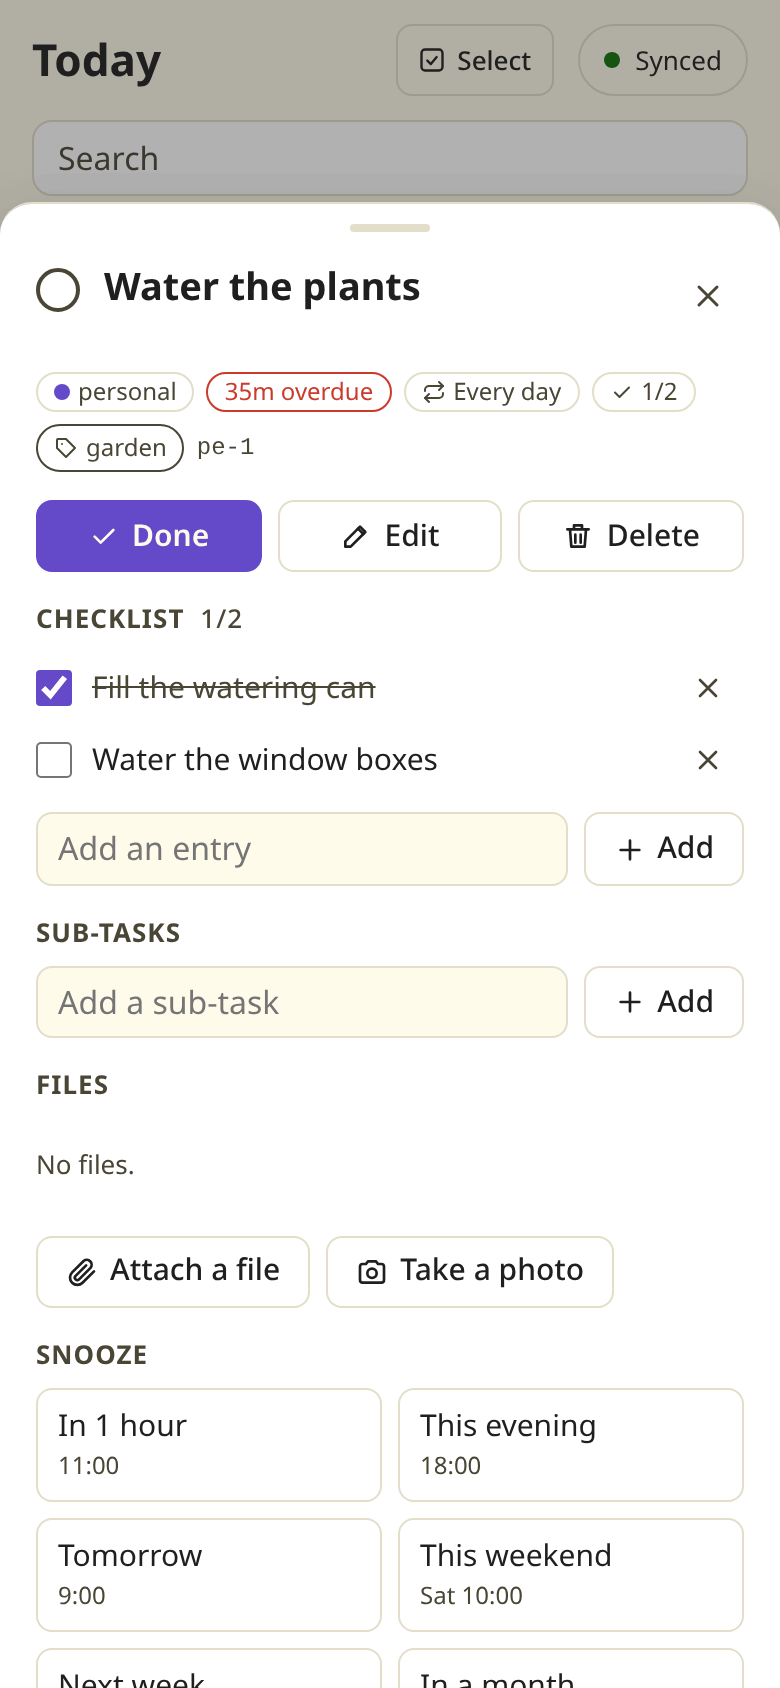
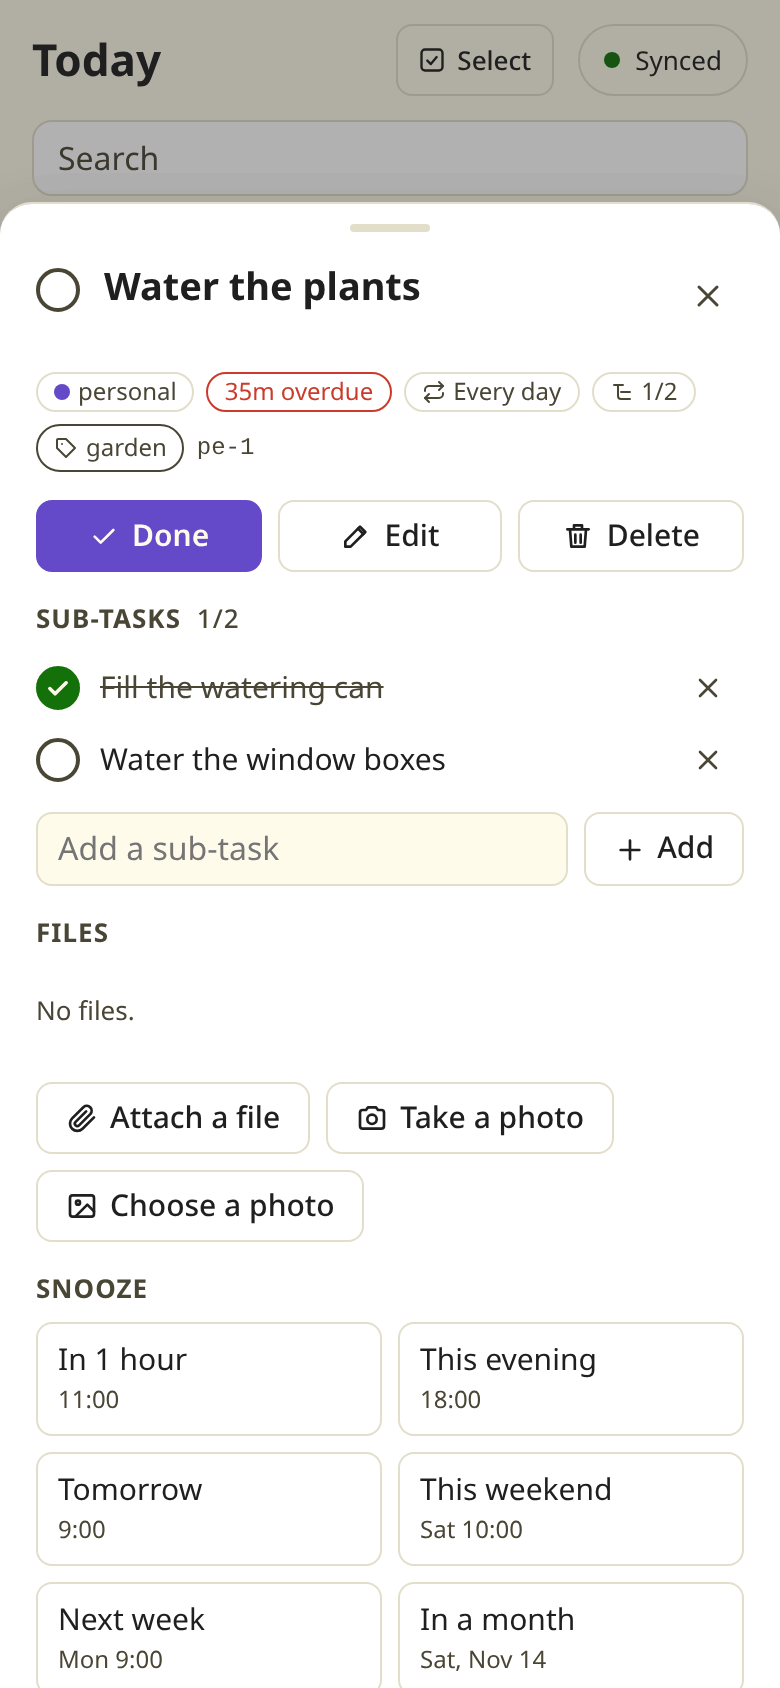
README: retake the phone detail shot with sub-tasks

diff --git a/README.md b/README.md
@@ -53,7 +53,7 @@ Each task from an agent shows why the agent needs you, which project it came fro
 
 <p>
   <img src="docs/images/phone-today-dark.png" width="300" alt="The Today list on a phone in the dark theme, grouped into Past due, Today, This evening, Tomorrow and This week. &quot;Call Sam about the weekend&quot; carries a weekend tag, the agent's task &quot;Order compost for the beds&quot; has a New badge, and a tab bar with Today, Upcoming, Agents and Browse sits at the bottom.">
-  <img src="docs/images/phone-detail.png" width="300" alt="The to-do &quot;Water the plants&quot; open on a phone in the light theme: it repeats every day and carries a garden tag, has a checklist with one of two entries ticked, and offers Done, Edit and Delete, a sub-task box, Files with Attach a file and Take a photo, and snooze choices.">
+  <img src="docs/images/phone-detail.png" width="300" alt="The to-do &quot;Water the plants&quot; open on a phone in the light theme: it repeats every day and carries a garden tag, and offers Done, Edit and Delete. Under Sub-tasks, one of two is ticked, each with a remove button, above a box to add another; Files offers Attach a file, Take a photo and Choose a photo, then come the snooze choices.">
 </p>
 
 ### Hand a task to an agent
